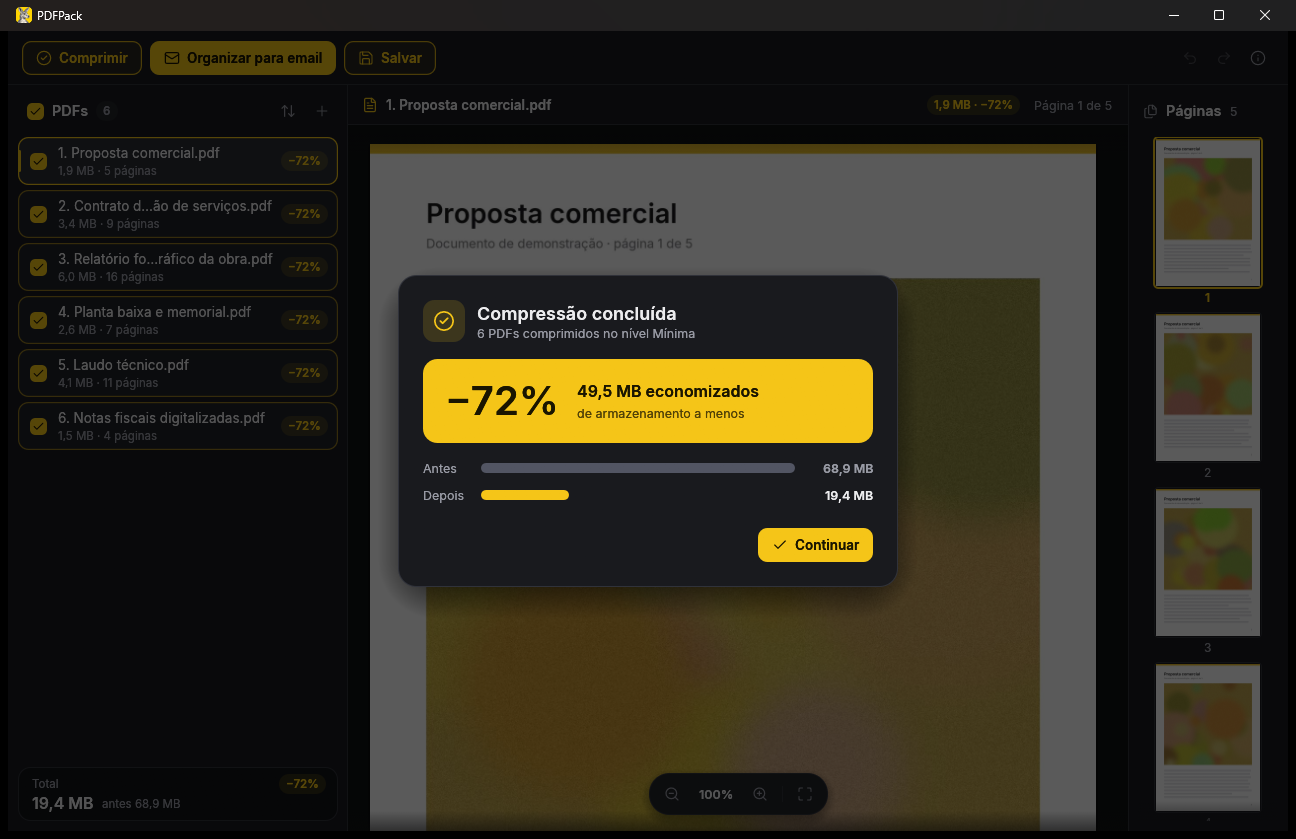
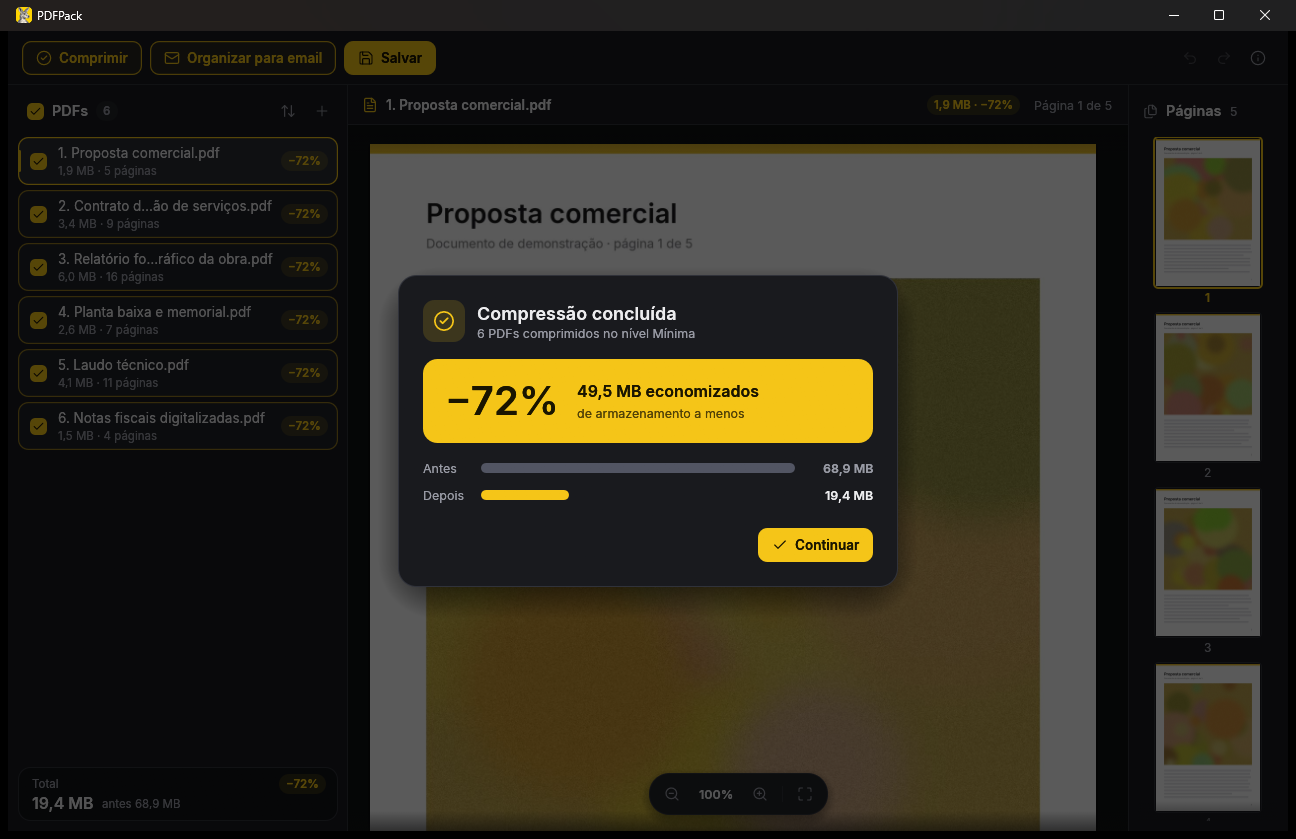
PDFPack 0.1.3: depois de comprimir, o destaque vai para Salvar
Organizar para email fica sempre como opção, sem ser apontado como o
próximo passo.

Changed region(s): [[0.0926, 0.031, 0.3395, 0.093]]

diff --git a/apps/pdfpack/src/list.rs b/apps/pdfpack/src/list.rs
@@ -25,18 +25,18 @@ pub fn toolbar(app: &mut App, ui: &mut Ui) {
     ui.horizontal(|ui| {
         ui.spacing_mut().item_spacing.x = 8.0;
         // Três ações independentes: quem só quer comprimir não precisa organizar. O amarelo cheio
-        // sugere a próxima, sem setas que façam parecer um caminho obrigatório.
-        if theme::button(ui, Some(if compressed { Icon::Done } else { Icon::Compress }), "Comprimir", kind(!compressed), has_docs).on_hover_text("Reduz o tamanho dos PDFs marcados").clicked() {
+        // vai de Comprimir para Salvar assim que há o que salvar; organizar fica sempre opcional.
+        if theme::button(ui, Some(if compressed { Icon::Done } else { Icon::Compress }), "Comprimir", kind(!compressed && !organized), has_docs).on_hover_text("Reduz o tamanho dos PDFs marcados").clicked() {
             app.modal = Modal::CompressSetup;
         }
-        if theme::button(ui, Some(if organized { Icon::Done } else { Icon::Mail }), "Organizar para email", kind(compressed && !organized), has_docs)
+        if theme::button(ui, Some(if organized { Icon::Done } else { Icon::Mail }), "Organizar para email", Kind::Outline, has_docs)
             .on_hover_text("Distribui os PDFs em pastas que cabem em um email")
             .clicked()
         {
             app.limit_text = app.prefs.email_limit_mb;
             app.modal = Modal::OrganizeSetup;
         }
-        if theme::button(ui, Some(Icon::Save), "Salvar", kind(organized), has_docs).on_hover_text("Salva tudo em uma pasta (Ctrl+S)").clicked() {
+        if theme::button(ui, Some(Icon::Save), "Salvar", kind(compressed || organized), has_docs).on_hover_text("Salva tudo em uma pasta (Ctrl+S)").clicked() {
             app.start_save(&ctx);
         }
         ui.with_layout(Layout::right_to_left(Align::Center), |ui| {
